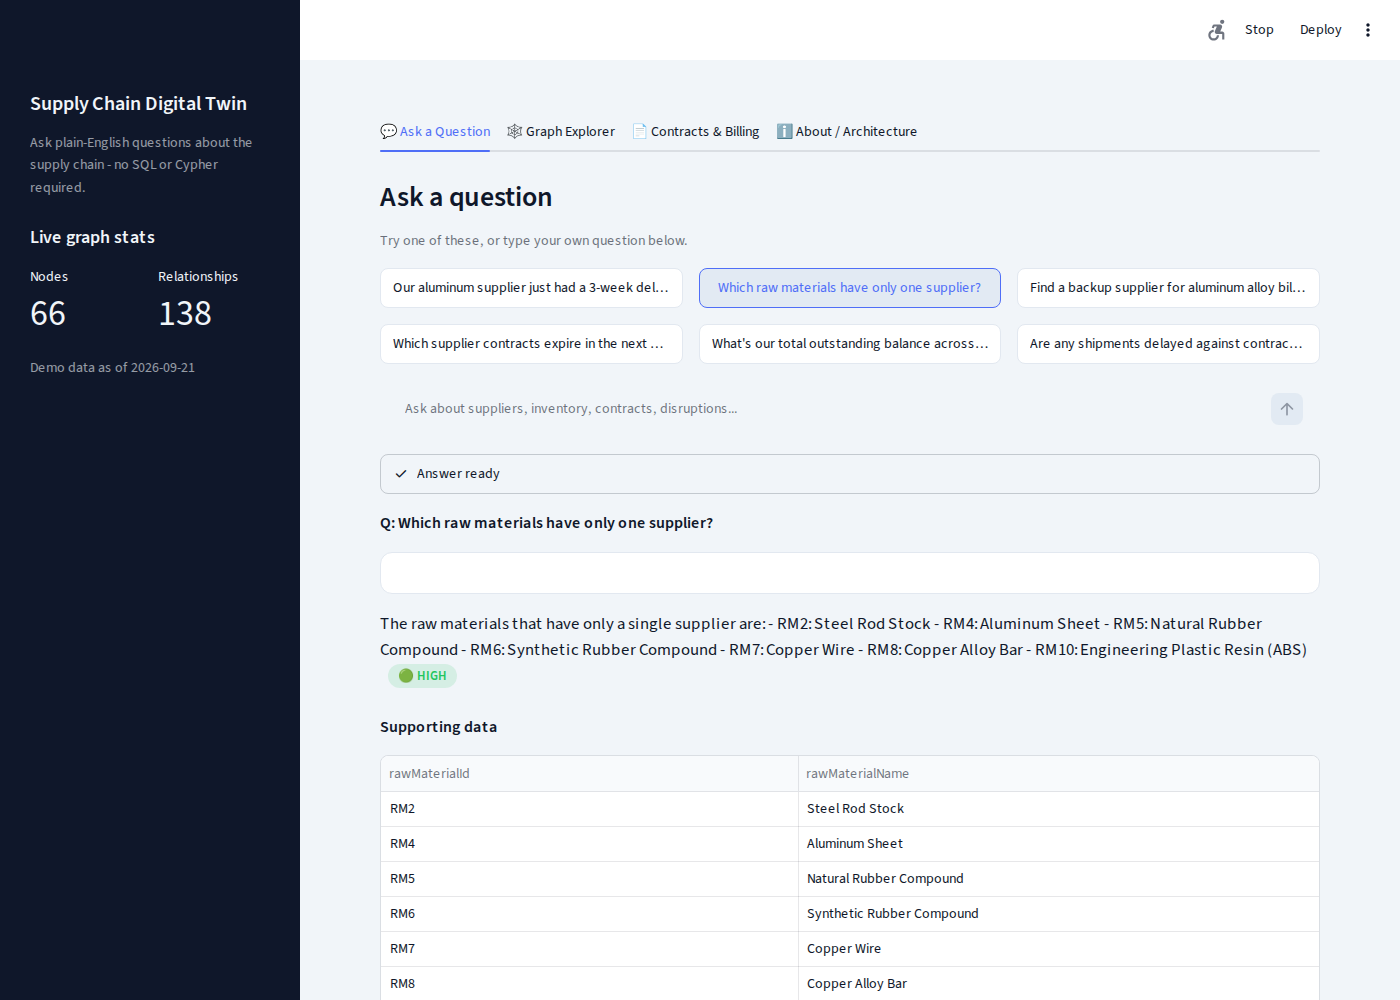
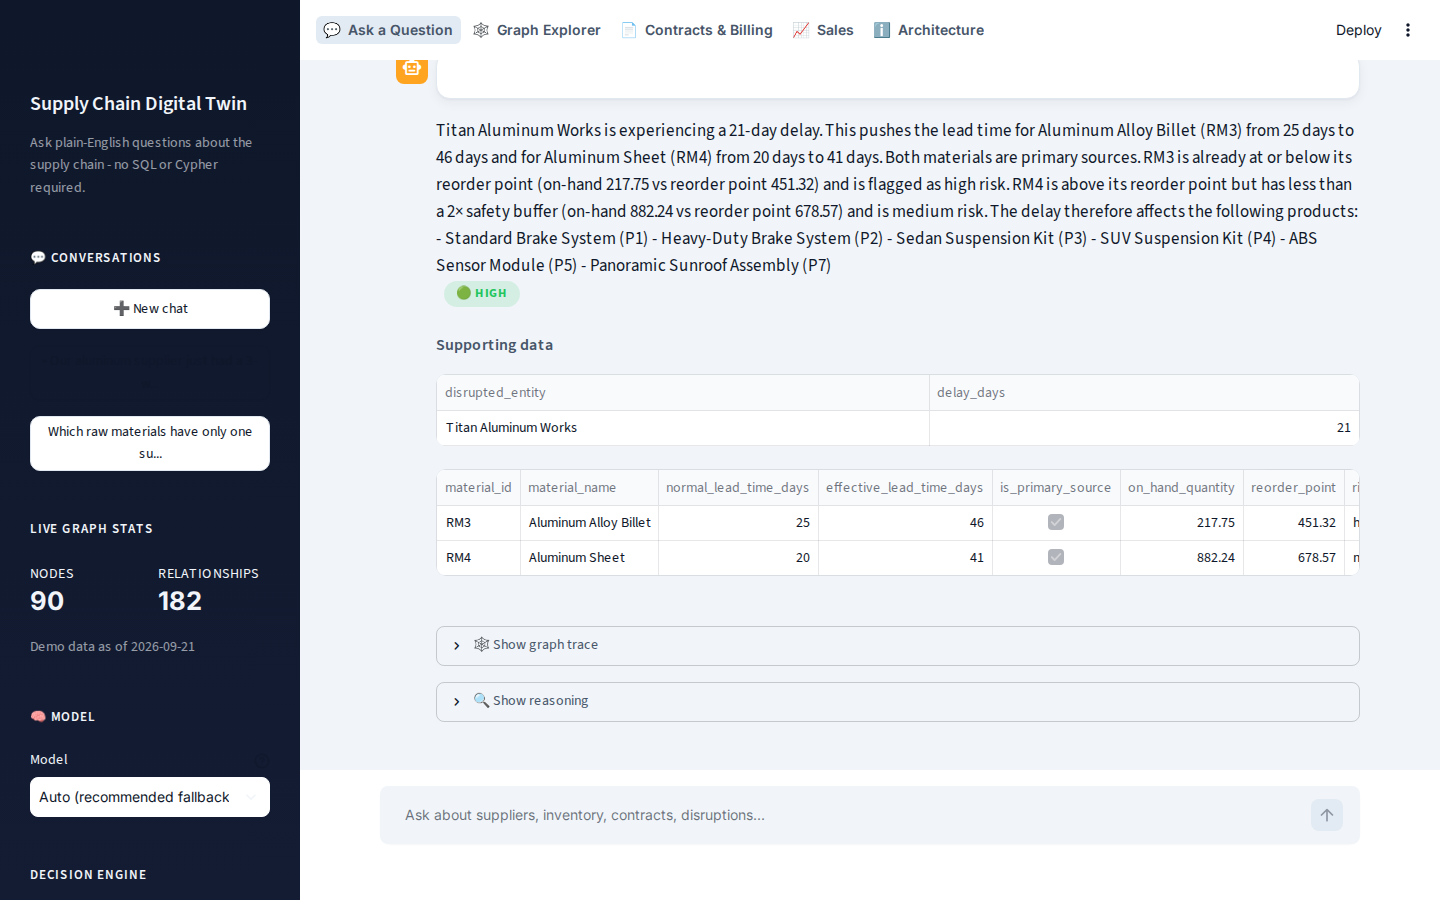
Refresh README: current screenshots, full flow and system architecture
- Retake all screenshots from the current app (chat-style Ask page,
  approval gate, reasoning + graph trace panels, Sales, shipment dialog,
  Architecture page); drop the stale about_architecture.png.
- Flow diagram now shows the answer cache, query_semantic and
  human_approval_gate, matching agent/graph.py.
- New "System architecture" section: UI, agent, LLM fallback chain,
  optional services, and what lives in Neo4j vs Postgres.

diff --git a/README.md b/README.md
@@ -34,20 +34,26 @@ of looking polished.
 
 ```mermaid
 flowchart TD
-    Q["User question"] --> CQ["classify_query<br/>(LLM: routes the question)"]
+    Q["User question"] --> C{"Asked verbatim<br/>before?"}
+    C -->|"yes"| HIT["Cached answer<br/>(no LLM call)"]
+    C -->|"no"| CQ["classify_query<br/>(LLM: routes the question)"]
     CQ -->|"graph_traversal /<br/>compound_multi_hop"| QN["query_neo4j<br/>(LLM writes Cypher)"]
     CQ -->|"inventory / cost /<br/>contract_status / sales"| QP["query_postgres<br/>(LLM writes SQL)"]
+    CQ -->|"semantic_search"| QS["query_semantic<br/>(pgvector over free-text notes)"]
     CQ -->|"disruption / capacity /<br/>cost_impact"| SIM["simulate_scenario<br/>(deterministic Python)"]
     QN -->|"compound_multi_hop<br/>needs both stores"| QP
     QN -->|"else"| VR
     QP --> VR["validate_results<br/>(Corrective-RAG-style check)"]
-    SIM --> VR
+    QS --> VR
+    SIM --> HG["human_approval_gate<br/>(LangGraph interrupt: Approve / Reject)"]
+    HG --> VR
     VR -->|"invalid, retries left"| CQ
     VR -->|"valid, or gave up"| SY["synthesize<br/>(LLM writes the final answer)"]
     SY --> A["Plain-English answer +<br/>confidence + reasoning trace"]
 
     QN -.-> N4J[("Neo4j AuraDB<br/>(relationships)")]
     QP -.-> PG[("PostgreSQL / Neon<br/>(transactions)")]
+    QS -.-> PG
 ```
 
 `classify_query` routes each question by type; `query_neo4j`/`query_postgres`
@@ -57,6 +63,64 @@ with hand-coded traversal + arithmetic instead of freeform LLM queries, since
 those need reliable multi-hop reasoning rather than creativity;
 `validate_results` catches a wrong or empty result and retries with feedback
 before giving up; `synthesize` writes the final plain-English answer.
+`query_semantic` handles questions no column answers (e.g. quality or
+compliance concerns) by searching free-text supplier notes, and
+`human_approval_gate` pauses a high-stakes recommendation (such as reordering
+from a backup supplier) until a person approves or rejects it.
+
+## System architecture
+
+```mermaid
+flowchart TB
+    subgraph UI["Streamlit app · 5 pages with real URLs"]
+        direction LR
+        ASK["💬 Ask a Question<br/>chat + history sidebar"]
+        DASH["🕸 Graph Explorer · 📄 Contracts & Billing ·<br/>📈 Sales · ℹ Architecture"]
+    end
+
+    subgraph AGENT["LangGraph agent · agent/"]
+        direction LR
+        G["StateGraph<br/>classify → query → validate → synthesize"]
+        SE["Semantic search<br/>fastembed, local ONNX"]
+        CK["Checkpointer<br/>paused approvals"]
+    end
+
+    subgraph EXT["External services"]
+        direction LR
+        LLM["LLM fallback chain<br/>Groq → OpenRouter → Anthropic → Gemini"]
+        OPT["Optional: TypeSafe Jev classifier,<br/>LangSmith tracing"]
+    end
+
+    subgraph DATA["Data stores"]
+        direction LR
+        N4J[("Neo4j AuraDB<br/>suppliers · materials · parts · products ·<br/>facilities · dealers · contracts")]
+        PG[("PostgreSQL / Neon<br/>inventory · shipments · invoices · billing · sales<br/>+ chat_history · query_cache · action_log ·<br/>supplier_notes (pgvector) · checkpoints")]
+    end
+
+    ASK -->|"questions"| AGENT
+    DASH -->|"row drill-down"| AGENT
+    DASH -->|"direct reads, no LLM"| DATA
+    AGENT --> EXT
+    AGENT -->|"generated Cypher / SQL"| DATA
+```
+
+- **Two stores, each for what it does best.** Relationships (who supplies
+  what, which parts go into which product, which dealer sells in which region)
+  live in **Neo4j**. Anything with a date and an amount (inventory, shipments,
+  invoices, billing, sales) lives in **PostgreSQL**. Compound questions query
+  both.
+- **The dashboards read the databases directly** for instant rendering. Only
+  the question-answering path (and a dashboard row's drill-down) goes through
+  the LLM agent.
+- **Postgres also holds the app's own state**: the exact-match answer cache
+  (`query_cache`), per-session chat history (`chat_history`), approval
+  decisions (`action_log`), LangGraph's checkpointer for paused runs, and
+  pgvector embeddings of free-text supplier notes.
+- **LLM calls go through one client** (`agent/llm_client.py`) that tries
+  Groq, then OpenRouter, Anthropic and Gemini, falling back on any error. A
+  model can also be picked manually in the sidebar.
+- **Deployment**: Streamlit Community Cloud, with GitHub Actions CI running
+  the pytest suite on every push.
 
 ## The app
 
@@ -79,14 +143,49 @@ needed to read every response.
 | 📈 **Sales** | The outbound mirror of Contracts & Billing — revenue and units sold, a 6-month trend, "where we're selling" by region (crosses both stores: revenue lives in Postgres, Dealer→Region only in Neo4j), and the same click-to-drill-down |
 | ℹ **Architecture** | This project's purpose, the exact-match answer cache, and the diagram above, for technical reviewers |
 
+### Screenshots
+
+**Ask a Question**: start from an example, then chat naturally. Past
+conversations are kept in the sidebar.
+
+![Ask a Question: example prompts](docs/screenshots/ask_home.png)
+
+**Human-in-the-loop approval**: a what-if scenario that recommends an action
+(here, reordering aluminum from a backup supplier) pauses for Approve / Reject
+before the answer is finalized.
+
+![Approval gate](docs/screenshots/approval_gate.png)
+
 <table>
 <tr>
-<td><img src="docs/screenshots/graph_explorer.png" alt="Graph Explorer tab"/></td>
+<td><img src="docs/screenshots/show_reasoning.png" alt="Show reasoning panel"/></td>
+<td><img src="docs/screenshots/graph_trace.png" alt="Graph trace panel"/></td>
+</tr>
+<tr>
+<td align="center"><em>🔍 Show reasoning: which node ran, on which engine and model, and how long it took</em></td>
+<td align="center"><em>🕸 Show graph trace: the subgraph behind the answer (disrupted materials in red, affected products in green)</em></td>
+</tr>
+<tr>
+<td><img src="docs/screenshots/graph_explorer.png" alt="Graph Explorer"/></td>
 <td><img src="docs/screenshots/contracts_billing.png" alt="Contracts & Billing dashboard"/></td>
 </tr>
 <tr>
-<td align="center"><em>Graph Explorer</em></td>
-<td align="center"><em>Contracts & Billing Dashboard</em></td>
+<td align="center"><em>Graph Explorer: 90 nodes / 182 relationships, filter by type, click to focus</em></td>
+<td align="center"><em>Contracts & Billing: expiry warnings, billing summary, shipment timeline</em></td>
+</tr>
+<tr>
+<td><img src="docs/screenshots/shipment_dialog.png" alt="Shipment detail dialog"/></td>
+<td><img src="docs/screenshots/sales.png" alt="Sales dashboard"/></td>
+</tr>
+<tr>
+<td align="center"><em>Click a timeline bar: instant shipment detail with a recommended action (no LLM call)</em></td>
+<td align="center"><em>Sales: revenue trend and revenue by region (Postgres + Neo4j)</em></td>
+</tr>
+<tr>
+<td colspan="2"><img src="docs/screenshots/architecture.png" alt="Architecture page"/></td>
+</tr>
+<tr>
+<td colspan="2" align="center"><em>Architecture page: purpose, answer cache, and the live flow diagram</em></td>
 </tr>
 </table>
 
